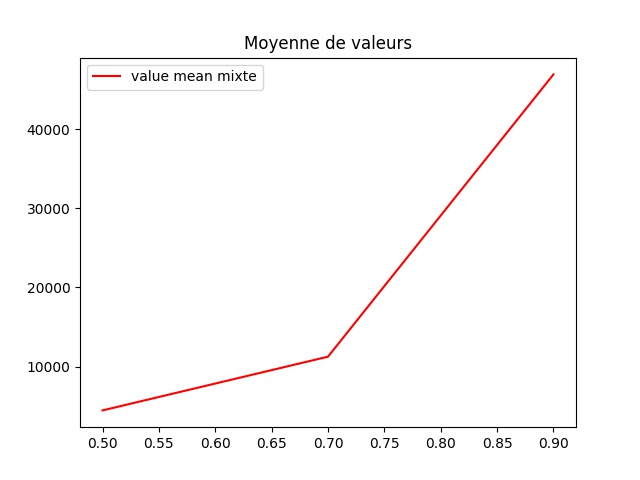
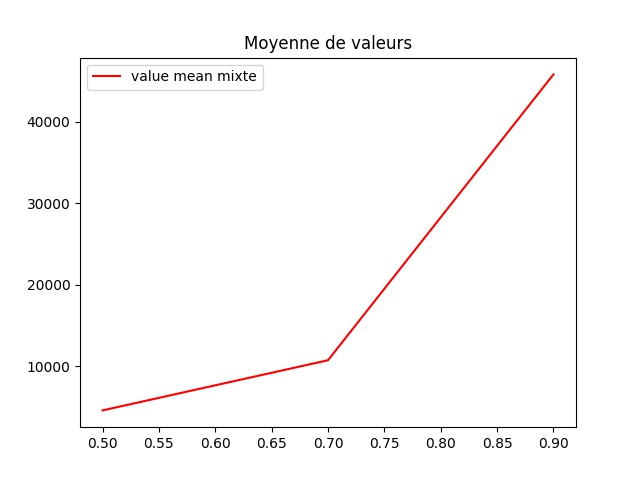
update results of 3c

diff --git a/changeif/main.py b/changeif/main.py
@@ -631,8 +631,8 @@ if __name__ == "__main__":
 	#init_game(_nblignes , _nbcolonness, _proba=_proba, _weight=_weight, _gamma=_gamma, _display=_display, _q=_q, _color=_color)
 
 	#question 3c
-	#comparer_make_image_3c()
+	comparer_make_image_3c()
 
 	#question 4a
-	init_game(_nblignes , _nbcolonness, _proba=_proba, _weight=_weight, _gamma=_gamma, _display=_display, _q=_q, _color=_color, _optimizer=4)
+	#init_game(_nblignes , _nbcolonness, _proba=_proba, _weight=_weight, _gamma=_gamma, _display=_display, _q=_q, _color=_color, _optimizer=4)
 
